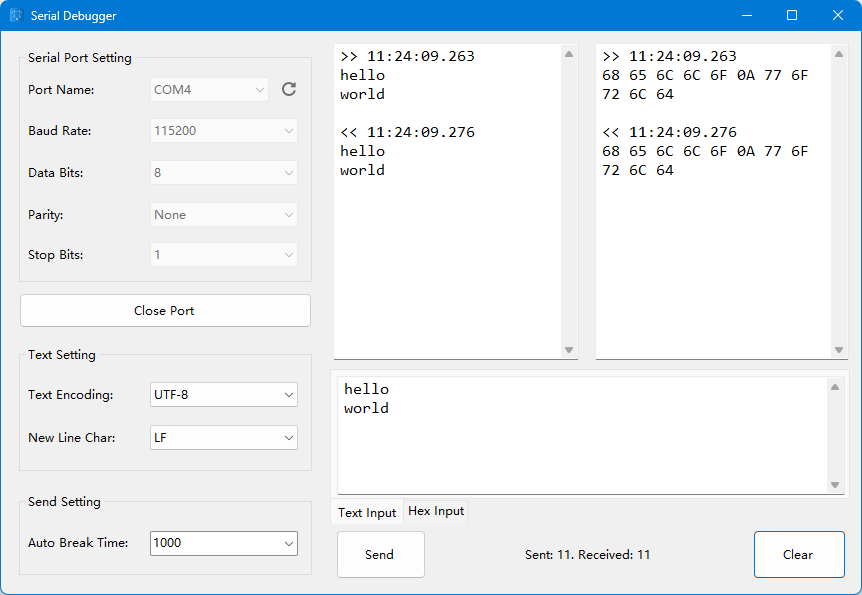
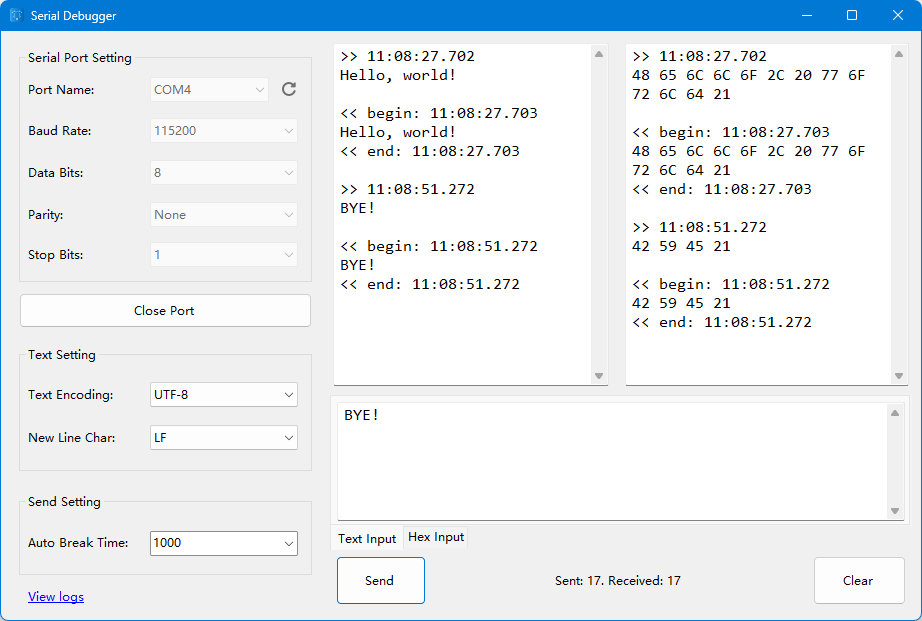
update README and app snapshot.

diff --git a/README.md b/README.md
@@ -14,6 +14,7 @@ A lightweight Windows application for debugging serial port communication. Send 
 - Non-blocking send/receive on background threads with thread-safe UI updates
 - Live `SentCount` / `ReceivedCount` status
 - Settings auto-persist to `%AppData%\SerialDebugger\settings.json` and reload on next launch
+- Session logs — each open-port session records the received stream to `~/.serial-debugger/` in raw and hex form; logs older than 30 days are cleaned up on startup
 - Hot-unplug detection — closes the port and notifies you if the device is removed while open
 
 ## Requirements
@@ -117,6 +118,17 @@ A debug build (`dotnet build` or `dotnet run`) does **not** trim, so it always r
 | `48656C6C6F`         | `48 65 6C 6C 6F`                         |
 | `48656C6C6`          | `48 65 6C 6C 06` (trailing nibble = low) |
 | `48656 C6C6F`        | `48 65 06 C6 C6 0F` (whitespace splits)  |
+
+## Session Logs
+
+Every time you open a port, a session log pair is reserved under `~/.serial-debugger/` (your user home directory, e.g. `C:\Users\you\.serial-debugger`). The files are created when the first data is received — opening a port and closing it without any data leaves nothing behind:
+
+- `YYYYMMDD-hhmmss-tx-plain.log` — the raw bytes exactly as received, no timestamps or markers
+- `YYYYMMDD-hhmmss-tx-hex.log` — the same data as hex, `A1 B2 C3 ...`, 64 bytes per line
+
+The timestamp prefix is the port-open time, so files sort chronologically by name and each session's plain/hex pair sits next to each other. The **View logs** link in the left panel opens the folder in Explorer.
+
+On startup, log files older than 30 days are deleted automatically.
 
 ## Settings
 
